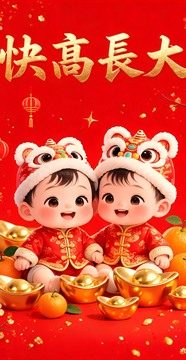
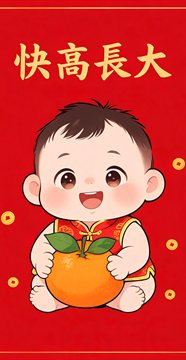
feat: add 5 print-friendly uncluttered kids styles (style09-13) and force ipv4first DNS

diff --git a/js/styles.js b/js/styles.js
@@ -5,10 +5,10 @@
  *
  * Dual-mode architecture:
  * - 'pet' (🐾 小動物／毛孩): style01–style08 (8 styles) — breed, coat color, markings & festive pet accessories
- * - 'kids' (👶 小朋友／親子): style09–style10 (2 styles) — child facial features, 2–3 head / 2-head chibi ratio & festive kids attire
+ * - 'kids' (👶 小朋友／親子): style09–style13 (5 styles) — print-friendly clean flat/2D chibi, child facial likeness & simple festive attire
  */
 
-const CACHE = '20261022i';
+const CACHE = '20261022j';
 
 export const CATEGORIES = {
   pet: {
@@ -181,38 +181,95 @@ export const STYLES = [
     category: 'kids',
     nameZh: 'Q版童趣',
     nameEn: 'Chibi Kids',
-    captionZh: '二／三頭身 × 小朋友／親子友好',
-    captionEn: '2–3 head chibi × kid & family friendly',
+    captionZh: '簡約紅底祥雲 × 易印扁平Q版',
+    captionEn: 'Clean red & gold clouds × print-ready chibi',
     image: 'assets/styles/pack-09.jpg',
     thumb: `assets/styles/pack-09-thumb.jpg?v=${CACHE}`,
     profileKey: 'chibi_kids',
     scene:
-      'Preserve the rich festive Lunar New Year chibi red-packet scene: saturated crimson-red silk background, glowing red lanterns hanging above, auspicious golden clouds, blooming pink plum blossoms and soft warm festival bokeh. Full-bleed colored scenery reaching all four edges with an open upper plaque area for gold brush calligraphy.',
+      'Preserve a clean, print-friendly flat 2D Lunar New Year red-packet background: solid rich crimson-red field (#b52a2d), simple bold-lined flat golden auspicious cloud motifs, and a clean gold hairline border frame. Keep large, uncluttered color blocks with zero tiny bokeh sparks or complex gradients so it prints crisply in CMYK.',
     subject:
-      'Reimagine every uploaded child or family member as a cute 2–3 head chibi human character while keeping recognizable facial features (eye shape, brows, cheeks, smile, hairstyle, fringe and glasses if worn), apparent age and exact person count. Dress them in modest, ornate Lunar New Year festive kids clothing (embroidered red-and-gold tang suit, qipao or festive vest with gold trim) holding a glowing festive lantern with human hands and limbs. Never replace a child with a generic mascot or animal.',
+      'Reimagine every uploaded child or family member as a cute 2.5-head flat/cel-shaded chibi human character with bold clean outlines and simple flat color shading while keeping recognizable facial features (eye shape, brows, cheeks, smile, hairstyle, fringe and glasses if worn), apparent age and exact person count. Dress them in a clean, simple red-and-gold tang suit (bold flat gold trim, no tiny micro-embroidery) holding a simple round red lantern with human hands.',
     lettering:
-      'Clear warm-gold rounded brush calligraphy with solid readable strokes, open counters and kid-friendly weight in the upper reserved plaque area.',
+      'Clean solid-gold Chinese brush calligraphy with crisp edges, solid flat gold fill and open counters in the upper reserved plaque area — no blurry glow or complex metallic noise.',
     avoid:
-      'No photoreal paste-ins, white studio backdrop, photo rectangle, sticker halo, adult model proportions, animal paws/ears on children or leftover template characters.',
+      'No complex 3D bokeh, tiny intricate embroidery, muddy gradients, busy background clutter, photoreal paste-ins, white studio backdrop, photo rectangle, animal ears/paws on children or leftover template characters.',
   },
   {
     id: 'style10',
     category: 'kids',
     nameZh: '二頭身寶貝',
     nameEn: '2-Head Baby',
-    captionZh: '二頭身寶貝 × 親子友好利是封',
-    captionEn: 'True 2-head baby chibi × family-friendly laisee',
+    captionZh: '大桔賀歲 × 簡約二頭身寶貝',
+    captionEn: 'Lucky tangerine × clean 2-head baby',
     image: 'assets/styles/pack-10.jpg',
     thumb: `assets/styles/pack-10-thumb.jpg?v=${CACHE}`,
     profileKey: 'chibi_baby',
     scene:
-      'Preserve the cozy warm-gold on deep vermilion-red baby-chibi red-packet atmosphere: soft 3D storybook lighting, gentle golden sparkles, hanging red lanterns, lucky tangerines (大桔) and golden ingots (元寶) around the base, and continuous rich red-and-gold scenery to all four edges.',
+      'Preserve a clean, uncluttered print-friendly vermilion-red background with a simple flat gold border frame and a few clean flat gold coin accents. Keep backgrounds solid and print-ready without tiny sparkles, heavy gradients or cluttered props.',
     subject:
-      'Reimagine uploaded baby, toddler, child or family identities as true 2-head baby/toddler chibi human characters with soft chubby proportions while preserving each child’s recognizable face shape, eyes, hairstyle, skin tone, expression and exact count. Dress them in adorable New Year baby/kids festive outfits (embroidered red-and-gold tang jacket and white-trimmed lion-dance cap resting above the forehead with face and hair clearly visible) fitted to a tiny 2-head body scale with distinct faces and human hands.',
+      'Reimagine uploaded baby, toddler, child or family identities as true 2-head baby/toddler chibi human characters in a clean 2D flat/storybook vector style with bold outlines and soft chubby cheeks, preserving each child’s recognizable face shape, eyes, hairstyle, skin tone, expression and exact count. Dress them in a simple red-and-gold festive baby vest holding one large, clean-shaped orange lucky tangerine (大桔) with distinct human hands.',
     lettering:
-      'Soft matte golden brush lettering, rounded and readable in the upper reserved greeting area.',
+      'Clean solid-gold rounded brush lettering with crisp print-ready edges in the upper reserved greeting area.',
     avoid:
-      'No tall realistic bodies, white backdrop, photographic paste-in, photo mat, merged faces, animal anatomy on children or leftover template subjects.',
+      'No overly complex props, tiny busy patterns, tall realistic bodies, white backdrop, photographic paste-in, photo mat, merged faces, animal anatomy on children or leftover template subjects.',
+  },
+  {
+    id: 'style11',
+    category: 'kids',
+    nameZh: '醒獅萌娃',
+    nameEn: 'Lion Cap Kid',
+    captionZh: '簡約醒獅帽 × 紅金波浪紋',
+    captionEn: 'Simple lion cap × clean gold waves',
+    image: 'assets/styles/pack-11.jpg',
+    thumb: `assets/styles/pack-11-thumb.jpg?v=${CACHE}`,
+    profileKey: 'chibi_lion_kid',
+    scene:
+      'Preserve a clean, print-ready solid crimson-red background with simple flat golden wave curves along the bottom edge and a clean gold border line. Maintain large, flat print-friendly color areas with no noisy textures or tiny floating particles.',
+    subject:
+      'Reimagine every uploaded child or family member as a cute 2.5-head flat/2D chibi human character wearing a simplified, bold-lined cute white-and-red lion-dance cap resting on top of the head (keeping the child’s entire face, eyebrows, eyes, smile and hair bangs clearly visible) and a clean red festive jacket with simple flat gold trim. Preserve each child’s exact facial likeness, hairstyle and person count.',
+    lettering:
+      'Crisp solid-gold brush calligraphy centered in the upper reserved greeting area, high contrast and print-friendly.',
+    avoid:
+      'No overly ornate multi-layered lion bristles, no covering the child’s face or hair, no busy background buildings, no white backdrop, no photorealistic cutouts or animal paws on children.',
+  },
+  {
+    id: 'style12',
+    category: 'kids',
+    nameZh: '小財神寶貝',
+    nameEn: 'Fortune Ingot Kid',
+    captionZh: '簡約金元寶 × 招財喜慶童裝',
+    captionEn: 'Clean gold ingot × festive fortune outfit',
+    image: 'assets/styles/pack-12.jpg',
+    thumb: `assets/styles/pack-12-thumb.jpg?v=${CACHE}`,
+    profileKey: 'chibi_fortune_kid',
+    scene:
+      'Preserve a clean, print-friendly solid crimson-red background with simple flat gold corner ornaments and a minimal gold frame. Avoid cluttered piles of coins or complex lighting gradients so the design prints cleanly.',
+    subject:
+      'Reimagine every uploaded child or family member as a cute 2.5-head flat/2D chibi human character with bold clean outlines, wearing a simple red-and-gold New Year outfit and a small round red mandarin cap (leaving hair bangs and full face visible), holding a single large, clean-shaped golden ingot (金元寶) in front of the chest with human hands. Preserve each child’s recognizable face, smile, glasses if worn, and exact count.',
+    lettering:
+      'Clean solid-gold Chinese brush calligraphy with crisp strokes in the upper reserved greeting area.',
+    avoid:
+      'No adult beard or adult god-of-wealth mask, no cluttered background props, no micro-patterns, no white backdrop, no photographic paste-in or animal features.',
+  },
+  {
+    id: 'style13',
+    category: 'kids',
+    nameZh: '桃花迎春',
+    nameEn: 'Blossom Frame Kid',
+    captionZh: '簡約金圓框 × 桃花拜年萌娃',
+    captionEn: 'Simple gold medallion × blossom greeting',
+    image: 'assets/styles/pack-13.jpg',
+    thumb: `assets/styles/pack-13-thumb.jpg?v=${CACHE}`,
+    profileKey: 'chibi_blossom_kid',
+    scene:
+      'Preserve a clean, print-ready solid crimson-red background featuring a simple flat gold circular medallion ring in the center and a few clean, flat five-petal pink peach blossoms on the side. Keep all shapes simple, bold and uncluttered for clean commercial printing.',
+    subject:
+      'Reimagine every uploaded child or family member as a cute 2.5-head flat/2D chibi human character framed by the gold medallion, making a cheerful two-hand Lunar New Year greeting gesture (拱手拜年) in a clean simple red-and-gold festive outfit. Preserve each child’s recognizable facial features, hairstyle, expression and exact person count.',
+    lettering:
+      'Clean solid-gold Chinese brush calligraphy centered in the upper reserved greeting area above the medallion.',
+    avoid:
+      'No dense realistic floral branches, no complex shading or bokeh, no branches crossing the child’s face, no white backdrop, no photorealistic cutouts or animal anatomy.',
   },
 ];
 
@@ -245,7 +302,7 @@ const KIDS_ANATOMY_ADAPTATION =
   'KIDS CHIBI PROPORTION AND FESTIVE CLOTHING ADAPTATION: reimagine uploaded children/family members with adorable chibi proportions (2–3 head chibi for Chibi Kids, true 2-head baby/toddler chibi for 2-Head Baby) with soft rounded limbs, visible human hands and fingers, and proper shoes. Dress every child in modest, festive Lunar New Year kids attire (embroidered red-and-gold tang suit, festive qipao, padded winter vest, auspicious collar or lion-dance cap framing the face without hiding eyebrows or hair). Never give children animal paws, fur, tails or adult model bodies.';
 
 const KIDS_STYLE_LOCKED =
-  'STYLE-LOCKED CHARACTER REPLACEMENT: Keep cute festive Lunar New Year chibi visual language throughout (warm crimson-and-gold palette, soft rounded 3D/2D storybook illustration, ornamental gold borders and lanterns). Uploaded photos supply child/family facial identity cues ONLY (facial landmarks, hairstyle, age and expression). Never copy any source-photo background or paste a photorealistic head onto a cartoon body; redraw face, hair, hands and festive clothing together in one unified chibi illustration style.';
+  'STYLE-LOCKED CHARACTER REPLACEMENT (PRINT-FRIENDLY CLEAN CHIBI): Keep a clean, uncluttered, print-ready 2D flat/cel-shaded Lunar New Year chibi visual language throughout (solid crimson-red background, bold clean outlines, simple flat color blocks, minimal flat gold motifs, zero tiny bokeh or complex micro-embroidery so it prints cleanly in CMYK). Uploaded photos supply child/family facial identity cues ONLY (facial landmarks, hairstyle, age and expression). Never copy any source-photo background or paste a photorealistic head onto a cartoon body; redraw face, hair, hands and simple festive clothing together in one unified, clean print-ready chibi illustration style.';
 
 /**
  * Build a filled image-model prompt for a style (worker main-path spirit, simplified).

diff --git a/index.html b/index.html
@@ -12,7 +12,7 @@
   <link rel="preconnect" href="https://fonts.googleapis.com" />
   <link rel="preconnect" href="https://fonts.gstatic.com" crossorigin />
   <link href="https://fonts.googleapis.com/css2?family=Noto+Sans+TC:wght@400;500;600;700&family=Noto+Serif+TC:wght@500;600;700&display=swap" rel="stylesheet" />
-  <link rel="stylesheet" href="./css/styles.css?v=20261022i" />
+  <link rel="stylesheet" href="./css/styles.css?v=20261022j" />
 </head>
 <body>
   <div class="auth-gate" id="auth-gate" hidden aria-hidden="true">
@@ -76,22 +76,22 @@
           <ul class="hero-chips" data-i18n-aria="chipFeaturesAria" aria-label="產品特點">
             <li class="hero-chip" data-i18n="chipAi">真 AI 出圖</li>
             <li class="hero-chip" data-i18n="chipPrint">可印含出血</li>
-            <li class="hero-chip" data-i18n="chipStyles">十款風格</li>
+            <li class="hero-chip" data-i18n="chipStyles">十三款風格</li>
           </ul>
           <div class="hero-preview" data-i18n-aria="heroPreviewAria" aria-label="款式預覽">
             <p class="hero-preview-label" data-i18n="heroPreviewLabel">風格一覽</p>
             <div class="hero-preview-row" role="list">
               <figure class="hero-thumb" role="listitem">
-                <img src="assets/styles/front-01-thumb.jpg?v=20261022f" alt="" width="72" height="138" loading="lazy" decoding="async" />
+                <img src="assets/styles/front-01-thumb.jpg?v=20261022j" alt="" width="72" height="138" loading="lazy" decoding="async" />
               </figure>
               <figure class="hero-thumb" role="listitem">
-                <img src="assets/styles/front-03-thumb.jpg?v=20261022f" alt="" width="72" height="138" loading="lazy" decoding="async" />
+                <img src="assets/styles/front-03-thumb.jpg?v=20261022j" alt="" width="72" height="138" loading="lazy" decoding="async" />
               </figure>
               <figure class="hero-thumb" role="listitem">
-                <img src="assets/styles/pack-04-thumb.jpg?v=20261022f" alt="" width="72" height="138" loading="lazy" decoding="async" />
+                <img src="assets/styles/pack-04-thumb.jpg?v=20261022j" alt="" width="72" height="138" loading="lazy" decoding="async" />
               </figure>
               <figure class="hero-thumb hero-thumb--q" role="listitem">
-                <img src="assets/styles/pack-09-thumb.jpg?v=20261022i" alt="" width="72" height="138" loading="lazy" decoding="async" />
+                <img src="assets/styles/pack-09-thumb.jpg?v=20261022j" alt="" width="72" height="138" loading="lazy" decoding="async" />
               </figure>
             </div>
           </div>
@@ -104,7 +104,7 @@
               </button>
               <button type="button" class="mode-card" id="mode-card-kids" data-category="kids" aria-pressed="false">
                 <span class="mode-card-title" data-i18n="modeKidsTitle">👶 小朋友／親子</span>
-                <span class="mode-card-desc" data-i18n="modeKidsDesc">Q版萌娃 · 2 款童趣風格</span>
+                <span class="mode-card-desc" data-i18n="modeKidsDesc">簡約易印 Q版 · 5 款童趣風格</span>
               </button>
             </div>
           </div>
@@ -129,7 +129,7 @@
         <h2 id="style-title" class="section-title" data-i18n="pickStyleTitle">揀款式</h2>
         <div class="category-tabs" id="category-tabs" role="tablist" data-i18n-aria="modePickerLabel" aria-label="選擇設計對象">
           <button type="button" class="category-tab" role="tab" id="tab-pet" data-category="pet" aria-selected="true" data-i18n="catTabPet">🐾 小動物／毛孩（8款）</button>
-          <button type="button" class="category-tab" role="tab" id="tab-kids" data-category="kids" aria-selected="false" data-i18n="catTabKids">👶 小朋友／親子（2款）</button>
+          <button type="button" class="category-tab" role="tab" id="tab-kids" data-category="kids" aria-selected="false" data-i18n="catTabKids">👶 小朋友／親子（5款）</button>
         </div>
         <p class="section-hint" id="pick-style-hint" data-i18n="pickStyleHintPet">毛孩專屬插畫風格 — AI 自動保留毛色、品種特徵與新年配飾</p>
         <p class="aspect-locked" aria-label="aspect">
@@ -212,6 +212,6 @@
   </div>
   <div class="app-toast" id="app-toast" role="status" aria-live="polite"></div>
 
-  <script type="module" src="./js/app.js?v=20261022i"></script>
+  <script type="module" src="./js/app.js?v=20261022j"></script>
 </body>
 </html>

diff --git a/js/i18n.js b/js/i18n.js
@@ -8,13 +8,13 @@ export const translations = {
     heroPreviewAria: '款式預覽',
     chipAi: '真 AI 出圖',
     chipPrint: '可印含出血',
-    chipStyles: '十款風格',
+    chipStyles: '十三款風格',
     chipFeaturesAria: '產品特點',
     modePickerLabel: '選擇設計對象',
     modePetTitle: '🐾 小動物／毛孩',
     modePetDesc: '貓狗毛孩 · 8 款插畫風格',
     modeKidsTitle: '👶 小朋友／親子',
-    modeKidsDesc: 'Q版萌娃 · 2 款童趣風格',
+    modeKidsDesc: '簡約易印 Q版 · 5 款童趣風格',
     startCtaHint: '約 1 分鐘完成',
     langLabel: '語言',
     startDesign: '開始設計',
@@ -35,9 +35,9 @@ export const translations = {
     pickStyleTitle: '揀款式',
     pickStyleHint: '選擇利是封設計風格（直式 3.5×6.75／約 14:27）',
     pickStyleHintPet: '毛孩專屬插畫風格 — AI 自動保留毛色、品種特徵與新年配飾',
-    pickStyleHintKids: '小朋友專屬 Q 版風格 — AI 自動保留五官神韻、髮型與喜慶唐裝',
+    pickStyleHintKids: '小朋友專屬簡約易印 Q 版風格 — 構圖清晰唔花巧、實色紅金易印刷，保留五官神韻',
     catTabPet: '🐾 小動物／毛孩（8款）',
-    catTabKids: '👶 小朋友／親子（2款）',
+    catTabKids: '👶 小朋友／親子（5款）',
     aspectLabel: '比例',
     aspect23: '3.5×6.75（利是封）',
     aspect32: '3:2（橫式）',
@@ -52,6 +52,9 @@ export const translations = {
     styleStyle08: '煙花螢火',
     styleStyle09: 'Q版童趣',
     styleStyle10: '二頭身寶貝',
+    styleStyle11: '醒獅萌娃',
+    styleStyle12: '小財神寶貝',
+    styleStyle13: '桃花迎春',
     uploadTitle: '上載相片',
     uploadTitlePet: '上載毛孩／小動物相片',
     uploadTitleKids: '上載小朋友／親子相片',
@@ -136,13 +139,13 @@ export const translations = {
     heroPreviewAria: 'Style preview',
     chipAi: 'Real AI art',
     chipPrint: 'Print-ready bleed',
-    chipStyles: '10 styles',
+    chipStyles: '13 styles',
     chipFeaturesAria: 'Product highlights',
     modePickerLabel: 'Choose who this laisee is for',
     modePetTitle: '🐾 Pets & Animals',
     modePetDesc: 'Cats, dogs & pets · 8 illustrated styles',
     modeKidsTitle: '👶 Kids & Family',
-    modeKidsDesc: 'Chibi kids & babies · 2 cute styles',
+    modeKidsDesc: 'Clean print-friendly chibi · 5 cute styles',
     startCtaHint: 'About 1 minute',
     langLabel: 'Language',
     startDesign: 'Start Designing',
@@ -163,9 +166,9 @@ export const translations = {
     pickStyleTitle: 'Choose a Style',
     pickStyleHint: 'Pick a red packet style (vertical 3.5×6.75 / ~14:27)',
     pickStyleHintPet: 'Pet illustration styles — AI preserves breed, coat colors & markings',
-    pickStyleHintKids: 'Chibi kids styles — AI preserves facial features, hairstyle & festive outfit',
+    pickStyleHintKids: 'Print-friendly clean chibi styles — bold lines & uncluttered colors for crisp printing',
     catTabPet: '🐾 Pets & Animals (8)',
-    catTabKids: '👶 Kids & Family (2)',
+    catTabKids: '👶 Kids & Family (5)',
     aspectLabel: 'Aspect',
     aspect23: '3.5×6.75 (Laisee)',
     aspect32: '3:2 (Landscape)',
@@ -180,6 +183,9 @@ export const translations = {
     styleStyle08: 'Firework Fireflies',
     styleStyle09: 'Chibi Kids',
     styleStyle10: '2-Head Baby',
+    styleStyle11: 'Lion Cap Kid',
+    styleStyle12: 'Fortune Ingot Kid',
+    styleStyle13: 'Blossom Frame Kid',
     uploadTitle: 'Upload Photos',
     uploadTitlePet: 'Upload Pet Photos',
     uploadTitleKids: 'Upload Kids / Family Photos',

diff --git a/js/app.js b/js/app.js
@@ -1,6 +1,6 @@
-import { t } from './i18n.js?v=20261022i';
-import { ensureAuth, setAuthLang } from './auth.js?v=20261022i';
-import { generatePacket, STYLE_IDS, STYLE_THUMBS, STYLE_IMAGES, STYLES, getStylesByCategory, PRINT_SPEC, exportPngWithBleed, exportPngWithDiecut, canvasWithDiecut } from './generate.js?v=20261022i';
+import { t } from './i18n.js?v=20261022j';
+import { ensureAuth, setAuthLang } from './auth.js?v=20261022j';
+import { generatePacket, STYLE_IDS, STYLE_THUMBS, STYLE_IMAGES, STYLES, getStylesByCategory, PRINT_SPEC, exportPngWithBleed, exportPngWithDiecut, canvasWithDiecut } from './generate.js?v=20261022j';
 
 const STYLE_LABEL_KEYS = {
   style01: 'styleStyle01',
@@ -13,6 +13,9 @@ const STYLE_LABEL_KEYS = {
   style08: 'styleStyle08',
   style09: 'styleStyle09',
   style10: 'styleStyle10',
+  style11: 'styleStyle11',
+  style12: 'styleStyle12',
+  style13: 'styleStyle13',
 };
 
 const GREETING_PRESETS_BY_CATEGORY = {

diff --git a/js/generate.js b/js/generate.js
@@ -6,7 +6,7 @@
  * Never hardcode API keys in the browser.
  */
 
-import { STYLES, CATEGORIES, PET_STYLES, KIDS_STYLES, getStylesByCategory, buildPacketPrompt } from './styles.js?v=20261022i';
+import { STYLES, CATEGORIES, PET_STYLES, KIDS_STYLES, getStylesByCategory, buildPacketPrompt } from './styles.js?v=20261022j';
 
 export { STYLES, CATEGORIES, PET_STYLES, KIDS_STYLES, getStylesByCategory, buildPacketPrompt };
 
@@ -14,7 +14,7 @@ const STYLE_IDS = STYLES.map((s) => s.id);
 
 /** Front-panel image paths (cropped from full die-cuts). */
 const STYLE_IMAGES = Object.fromEntries(
-  STYLES.map((s) => [s.id, s.image.includes('?') ? s.image : `${s.image}?v=20261022i`])
+  STYLES.map((s) => [s.id, s.image.includes('?') ? s.image : `${s.image}?v=20261022j`])
 );
 
 const STYLE_THUMBS = Object.fromEntries(

diff --git a/css/styles.css b/css/styles.css
@@ -733,6 +733,10 @@ img { max-width: 100%; display: block; }
 }
 
 .style-card {
+  display: flex;
+  flex-direction: column;
+  justify-content: flex-start;
+  align-items: stretch;
   border: 2px solid transparent;
   background: var(--white);
   border-radius: var(--radius-sm);

diff --git a/js/auth.js b/js/auth.js
@@ -1,7 +1,7 @@
 /**
  * Frontend login gate — requires /api/me before showing the 6-step flow.
  */
-import { t } from './i18n.js?v=20261022i';
+import { t } from './i18n.js?v=20261022j';
 
 let lang = 'zh-Hant';
 let config = {

diff --git a/README.md b/README.md
@@ -33,7 +33,7 @@ ES modules 需經 http(s)，唔好用 `file://`。
 2. **條款** — 捲到最底先可「同意」；相片權限、個人用途、AI 轉送／本地 fallback 說明
 3. **揀款式** — 固定直式 3.5×6.75（約 14:27；API `aspect_ratio` 用 2:3）；分兩大專區獨立顯示：
    - **🐾 小動物／毛孩（8款）**：金光醒獅、牡丹富貴、雪庭柿語、醒獅巡遊、紅韻燈籠、金庭暖陽、燈火許願、煙花螢火（AI Prompt 專注保留品種、毛色、斑紋與喜慶配件）
-   - **👶 小朋友／親子（2款）**：**Q版童趣**、**二頭身寶貝**（AI Prompt 專注保留小朋友面部特徵、Q版比例與喜慶童裝）
+   - **👶 小朋友／親子（5款・易印簡約版）**：**Q版童趣**、**二頭身寶貝**、**醒獅萌娃**、**小財神寶貝**、**桃花迎春**（專為實體印刷優化：純紅底色、粗線條扁平插畫、零碎光斑，確保印製清晰乾淨）
 4. **上載相片** — 1–5 張；拖放或揀檔；可刪縮圖
 5. **賀詞** — 預設「恭喜發財」等；自由輸入／短訊息（各 30 字）；「生成利是封」
 6. **結果** — 預覽可縮放移動；修改指示＋再生成；**主按鈕「下載 PNG（含出血）」** → `laisee-2026-<時間>-bleed.png`（1125×2100）；**分享**（優先 Web Share 檔案／PNG，否則 url+title；本機無公開 URL 時提示下載後分享）；次要「淨尺寸」→ `laisee-2026-<時間>.png`（1050×2025）；重新開始
@@ -51,8 +51,8 @@ laisee-app/
 ├── css/styles.css
 ├── js/
 │   ├── i18n.js
-│   ├── styles.js       # 九款風格（含 Q 版童趣／二頭身；無雪庭柿語）；隱藏 AI prompt（buildPacketPrompt）
-│   ├── generate.js     # proxy 優先 → Canvas fallback
+│   ├── styles.js       # 十三款風格（毛孩 8 款 + 小朋友易印簡約 5 款）；隱藏 AI prompt（buildPacketPrompt）
+│   ├── generate.js     # proxy 優先 → Canvas fallback + 全景刀模展開圖合成
 │   ├── auth.js         # 前端登入閘
 │   └── app.js
 ├── assets/styles/
